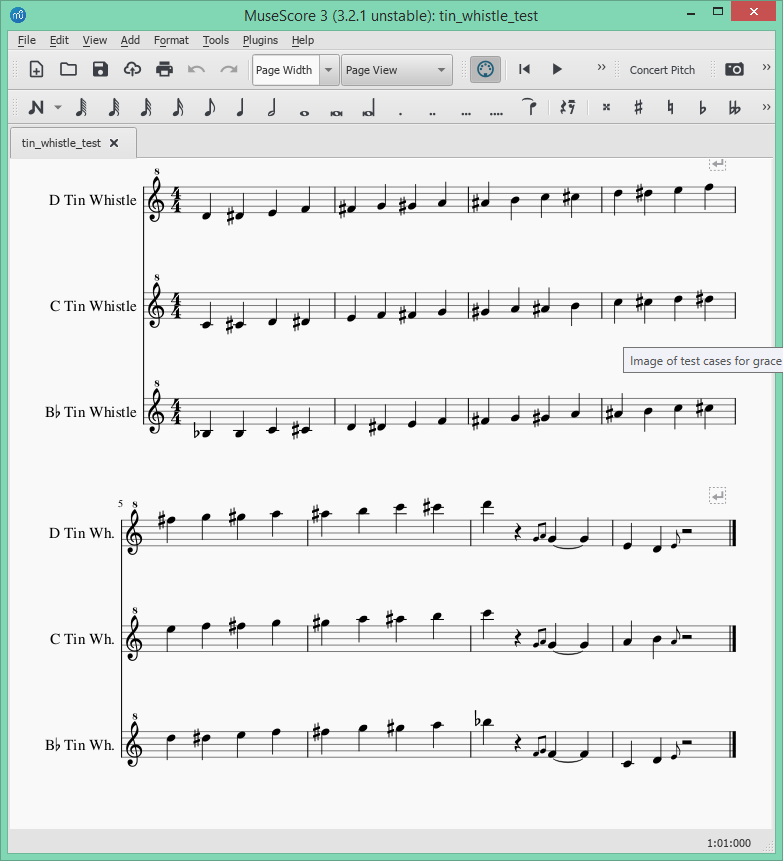
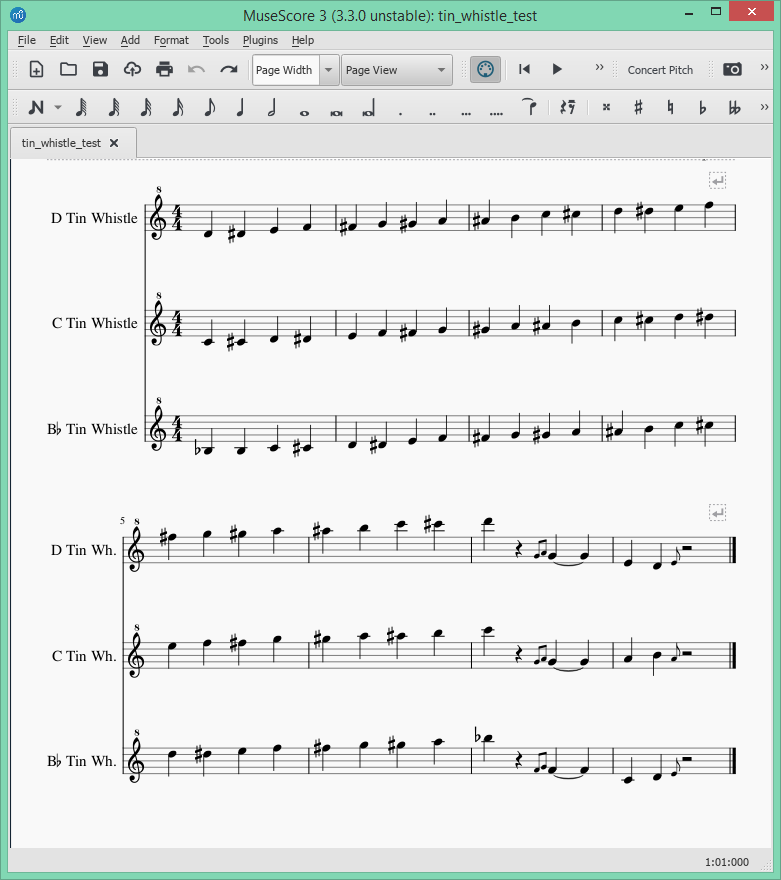
Accurately place whistle tabs for grace notes.
The MuseScore 3.3+ plugin api provides posX and posY element
properties that can be used to position other elements that
are related to each other. In this case the posX offset of the grace
notes can be used to directly position the whistle fingering tab
font characters below the actual note. This works even if the
note has been manually positioned. Finally the 3.3 release
fixes the broken note.tieBack call that returned undefined.
Now you won't get duplicate tab images for the later tied notes.

diff --git a/tin_whistle_tablature.qml b/tin_whistle_tablature.qml
@@ -26,11 +26,12 @@ import QtQuick.Dialogs 1.1
 import MuseScore 3.0
 
 MuseScore {
-   version: "3.0"
+   version: "3.3"
    description: qsTr("This plugin provides fingering diagrams for the tin whistle. Ensure font `TinWhistleTab.ttf` is installed")
    menuPath: "Plugins.Tin Whistle.Add tablature"
 
    property var tabFontName: "Tin Whistle Tab"
+   property var whistleFound: false
 
    // The notes from the "Tin Whistle Tab" font, using key of D as standard
    property variant tabs : ["d", "i", "e", "j", "f", "g", "h", "a", "n", "b", "m", "c", "D", "I", "E", "J", "F", "G", "H", "A", "N", "B", "M", "C", '\u00CE']
@@ -45,6 +46,18 @@ MuseScore {
          "https://www.blaynechastain.com/wp-content/uploads/TinWhistleTab.zip\n\n" +
          "The Zip file contains the TinWhistleTab.ttf font file you need to install on your device.\n" +
          "You will also need to restart MuseScore for it to recognize the new font."
+      onAccepted: {
+         Qt.quit()
+      }
+   }
+
+   MessageDialog {
+      id: noWhistlesFound
+      icon: StandardIcon.Warning
+      standardButtons: StandardButton.Ok
+      title: "No Staffs use a Tin Whistle"
+      text: "No selected staff in the current score uses a tin whistle instrument.\n" +
+            "Use menu command \"Edit -> Instruments\" to select your instrument."
       onAccepted: {
          Qt.quit()
       }
@@ -69,7 +82,7 @@ MuseScore {
       text.fontFace = tabFontName
       text.fontSize = tabSize
       // Vertical align to top. (0 = top, 1 = center, 2 = bottom, 3 = baseline)
-      text.align = Align.TOP     // 'Align' available in MuseScore 3.3
+      text.align = 0             // 'Align.TOP' is available in MuseScore 3.3
       // Place text to below the staff.
       text.placement = Placement.BELOW
       // Turn off note relative placement
@@ -77,15 +90,15 @@ MuseScore {
    }
 
    // For diagnostic use.
-//   function dumpObjectEntries (obj, showUndefinedVals, title) {
-//      console.log("VV -------- " + title + " ---------- VV")
-//      for (let [key, value] of Object.entries(obj)) {
-//         if (showUndefinedVals || (value != null)) {
-//            console.log(key + "=" + value);
-//         }
-//      }
-//      console.log("^^ -------- " + title + " ---------- ^^")
-//   }
+   function dumpObjectEntries(obj, showUndefinedVals, title) {
+      console.log("VV -------- " + title + " ---------- VV")
+      for (var key in obj) {
+         if (showUndefinedVals || (obj[key] != null)) {
+            console.log(key + "=" + obj[key]);
+         }
+      }
+      console.log("^^ -------- " + title + " ---------- ^^")
+   }
 
    function renderTinWhistleTablature() {
       // select either the full score or just the selected staves
@@ -133,27 +146,35 @@ MuseScore {
          if (instrument == "wind.flutes.whistle.tin") {
             basePitch = 72   // default is C tuning (even though D is the most common)
             tabOffsetY = -0.7
+            whistleFound = true;
          } else if (instrument == "wind.flutes.whistle.tin.c") {
             basePitch = 72   // C tuning
             tabOffsetY = -0.7
+            whistleFound = true;
          } else if (instrument == "wind.flutes.whistle.tin.bflat") {
             basePitch = 70   // B flat tuning
             tabOffsetY = -0.4
+            whistleFound = true;
          } else if (instrument == "wind.flutes.whistle.tin.d") {
             basePitch = 74   // D tuning
             tabOffsetY = -1.0
+            whistleFound = true;
          } else if (instrument == "wind.flutes.whistle.tin.common") {
             basePitch = 74   // D tuning (the most common)
             tabOffsetY = -1.0
+            whistleFound = true;
          } else if (instrument == "wind.flutes.whistle.tin.eflat") {
             basePitch = 75   // E flat tuning
             tabOffsetY = -1.0
+            whistleFound = true;
          } else if (instrument == "wind.flutes.whistle.tin.f") {
             basePitch = 77   // F tuning
             tabOffsetY = -1.0
+            whistleFound = true;
          } else if (instrument == "wind.flutes.whistle.tin.g") {
             basePitch = 79   // G tuning
             tabOffsetY = -1.0
+            whistleFound = true;
          } else {
             console.log("Skipped staff " + staff + " for instrumentId: " + instrument)
             continue
@@ -175,14 +196,14 @@ MuseScore {
          // Some positioning values used to render grace notes.
          // Note that these are determined by observation of the results
          // and appear to be consistent. It would be better to find the actual
-         // location of the grace notes but that capability isn't exposed at
-         // this time (circa MuseScore 3.2).
+         // location of the grace notes but that capability isn't exposed until
+         // version 3.3 of MuseScore. So for the earlier releases we use these
+         // heuristics.
          var graceNoteWidth = 1.2         // Assumed grace note width
          var graceNoteNudgeLeading = 0.0  // Assumed leading note cluster offset from main note
          var graceNoteNudgeTrailing = 3.0 // Assumed trailing note cluster offset from main note
 
          // TinWhistleTab.ttf character image font sizes.
-         // Note that these are determined by observation of the results.
          var tabFontSizeNormal = 35       // Size of normal sized whistle tab image
          var tabFontSizeGrace = 25        // Size of grace note sized whistle tab image
 
@@ -194,16 +215,21 @@ MuseScore {
                var leadingLifo = new Array();
                var trailingFifo = new Array();
                var graceChords = cursor.element.graceNotes;
+               // Determine if Element.posX and Element.posY is supported. (MuseScore 3.3+)
+               var hasElementPos = cursor.element.posX !== undefined;
+
+               // Build separate lists of leading and trailing grace note chords.
                if (graceChords.length > 0) {
-                  var hasNoteType = graceChords[0].notes[0].noteType !== undefined;
+                  // Determine if Note.noteType is supported. (MuseScore 3.2.1)
+                  var hasNoteType = graceChords[0].notes[0] !== undefined;
                   if (hasNoteType) {
                      for (var chordNum = 0; chordNum < graceChords.length; chordNum++) {
                         var noteType = graceChords[chordNum].notes[0].noteType
                         if (noteType == NoteType.GRACE8_AFTER || noteType == NoteType.GRACE16_AFTER ||
                               noteType == NoteType.GRACE32_AFTER) {
-                           trailingFifo.unshift(graceChords[chordNum].notes[0])
+                           trailingFifo.unshift(graceChords[chordNum])
                         } else {
-                           leadingLifo.push(graceChords[chordNum].notes[0])
+                           leadingLifo.push(graceChords[chordNum])
                         }
                      }
                   } else {
@@ -211,10 +237,9 @@ MuseScore {
                      // the NoteType capability doesn't exist in the running version of
                      // MuseScore.
                      for (var chordNum = 0; chordNum < graceChords.length; chordNum++) {
-                        leadingLifo.unshift(graceChords[chordNum].notes[0])
+                        leadingLifo.unshift(graceChords[chordNum])
                      }
                   }
-                  // Build separate lists of leading and trailing grace notes.
                }
 
                // First render leading grace notes if any exist...
@@ -223,19 +248,25 @@ MuseScore {
                   var graceLocationX = leadingLifo.length * -graceNoteWidth + graceNoteNudgeLeading;
                   for (var chordNum = 0; chordNum < leadingLifo.length; chordNum++) {
                      // there are no chords when playing the tin whistle
-                     var note = leadingLifo[chordNum];
-                     var pitch = note.pitch;
+                     var chord = leadingLifo[chordNum];
+                     var pitch = chord.notes[0].pitch;
 
                      text.text = selectTinTabCharacter(pitch, basePitch)
                      // Note: Set text attributes *after* adding element to the score.
                      cursor.add(text)
                      // grace notes are shown a bit smaller
                      setTinTabCharacterFont(text, tabFontSizeGrace)
-                     // there seems to be no way of knowing the exact horizontal pos.
-                     // of a grace note, so we have to guess:
-                     text.offsetX = graceLocationX
-                     // Move to the next note location.
-                     graceLocationX += graceNoteWidth;
+                     if (hasElementPos) {
+                        // X position the tab image under the grace note
+                        text.offsetX = chord.posX
+                     }
+                     else {
+                        // there seems to be no way of knowing the exact horizontal pos.
+                        // of a grace note, so we have to guess:
+                        text.offsetX = graceLocationX
+                        // Move to the next note location.
+                        graceLocationX += graceNoteWidth;
+                     }
                      // (See the note below about behavior of the text.offsetY property.)
                      text.offsetY = tabOffsetY   // place the tab below the staff
 
@@ -247,7 +278,8 @@ MuseScore {
                // Next process the parent note...
                if (cursor.element.notes[0].tieBack == null) {  // don't add tab if note is tied to previous note
                   // there are no chords when playing the tin whistle, so use first note
-                  var pitch = cursor.element.notes[0].pitch;
+                  var chord = cursor.element;
+                  var pitch = chord.notes[0].pitch;
                   text.text = selectTinTabCharacter(pitch, basePitch)
 
                   // NOTE - text.offsetY behavior oddity:
@@ -272,8 +304,11 @@ MuseScore {
                   // Next, setting text.offsetY will actually ADD the new value to the current value thereby
                   // acting as a numerical integrator.
                   text.offsetY = tabOffsetY
-                  // Nudge the hole pattern to be centered under the note.
-                  text.offsetX = 0.5
+                  // Place the whistle hole pattern to be centered under the note.
+                  if (hasElementPos)
+                     text.offsetX = chord.posX + 0.25
+                  else
+                     text.offsetX = 0.5
 
                   // Create new text element for next tab placement
                   text = newElement(Element.STAFF_TEXT)
@@ -286,19 +321,25 @@ MuseScore {
 
                   for (var chordNum = 0; chordNum < trailingFifo.length; chordNum++) {
                      // there are no chords when playing the tin whistle
-                     var note = trailingFifo[chordNum];
-                     var pitch = note.pitch;
+                     var chord = trailingFifo[chordNum];
+                     var pitch = chord.notes[0].pitch;
 
                      text.text = selectTinTabCharacter(pitch, basePitch)
                      // Note: Set text attributes *after* adding element to the score.
                      cursor.add(text)
                      // grace notes are shown a bit smaller
                      setTinTabCharacterFont(text, tabFontSizeGrace)
-                     // there seems to be no way of knowing the exact horizontal pos.
-                     // of a grace note, so we have to guess:
-                     text.offsetX = graceLocationX
-                     // Move to the next note location.
-                     graceLocationX += graceNoteWidth;
+                     if (hasElementPos) {
+                        // X position the tab image under the grace note
+                        text.offsetX = chord.posX
+                     }
+                     else {
+                        // there seems to be no way of knowing the exact horizontal pos.
+                        // of a grace note, so we have to guess:
+                        text.offsetX = graceLocationX
+                        // Move to the next note location.
+                        graceLocationX += graceNoteWidth;
+                     }
                      // (See the note below about behavior of the text.offsetY property.)
                      text.offsetY = tabOffsetY   // place the tab below the staff
 
@@ -319,8 +360,11 @@ MuseScore {
       if (typeof curScore === 'undefined')
          Qt.quit()
 
-      if (Qt.fontFamilies().indexOf("Tin Whistle Tab") >= 0)
+      if (Qt.fontFamilies().indexOf("Tin Whistle Tab") >= 0) {
          renderTinWhistleTablature()
+         if (!whistleFound)
+            noWhistlesFound.open()
+      }
       else
          fontMissingDialog.open()
       Qt.quit()

diff --git a/README.md b/README.md
@@ -10,7 +10,7 @@ plugin will adjust the tab diagram position for the lowest note possible
 (currently D, C or Bb).
 
 See the "Here be Dragons" section of this document that discusses various
-limitations of MuseScore 3 releases.
+quirks related to early MuseScore 3 releases.
 
 ### Installation
 * If using MuseScore version 3 then download the [plugin](https://github.com/jgadsden/tin-whistle-tablature/archive/master.zip) and unzip it.
@@ -25,12 +25,12 @@ are using MuseScore version 2.x then use this [handbook](https://musescore.org/e
 to enable the plugin. Tick the box against 'tin\_whistle\_tablature' and apply
 with 'OK'.
 
-* This plugin relies on a font being installed, which is not included in this
-download but can be obtained from [Blayne Chastain's site](https://www.blaynechastain.com/wp-content/uploads/TinWhistleTab.zip). To install the 
-font it is usually just a case of double-clicking the downloaded `.ttf` file 
-and agreeing to the install process. If that does not work then on linux
-systems try copying the TinWhistleTab.ttf font file to the 
-`/usr/share/fonts/truetype/` directory.
+* This plugin relies on a font being installed, which is not included in this download 
+but can be obtained from [Blayne Chastain's site](https://www.blaynechastain.com/wp-content/uploads/TinWhistleTab.zip). If the font isn't installed you will be 
+presented with a message box telling you how to obtain the font. To install the 
+font, it is usually just a case of double-clicking the downloaded `.ttf` file and 
+agreeing to the install process. If that does not work then on linux systems try 
+copying the TinWhistleTab.ttf font file to the `/usr/share/fonts/truetype/` directory.
 
 ### Using the plugin
 The tabs will be added to the highlighted bars if you have made a selection,
@@ -76,25 +76,25 @@ MuseScore 2.x on a branch 'version2' and the other for Musecore 3.x on the
 The version for MuseScore 2 will check that the staff is for a tin whistle and
 adjust the tab diagram position for the lowest note possible.
 
-Prior to MuseScore 3.2, the instrument type used on a staff can NOT be 
-detected. In this case the plugin will assume that a whistle tuned to D is 
-used - this being the most common whistle. 
+Prior to MuseScore 3.2:
 
-Also, circa June 2019, this plugin only supports grace notes that lead the main 
-note. Tabs for trailing grace notes will be rendered as leading notes which is 
-not what you want. In fact the trailing notes will be out of order. The next 
-release of MuseScore (following 3.2) will support the layout of both styles of 
-grace notes since the QML will then expose note types (including grace notes). 
-The current version of this plugin is ready to use when that is released. 
-Until then, best to stay away from trailing grace notes. The following image 
-shows what's possible after that release: 
+* The instrument type used on a staff can NOT be detected. In this case the plugin will 
+assume that a whistle tuned to D is used - this being the most common whistle. 
+
+* This plugin only supports grace notes that lead the main note. Tabs for trailing grace 
+notes will be rendered as leading notes which is not what you want. In fact the trailing 
+notes will be out of order. 
+
+Prior to MuseScore 3.3:
+
+* You may see some minor issues with grace note tab positioning. The actual physical 
+position of the grace notes was not available before v3.3 so a heuristic approach 
+(aka good 'ole human observation) is used to get a decent overall result even though 
+it's not perfect.
+
+Here is an example of how the fingering tab images are accurately positioned in MuseScore 3.3+:
 
 ![Image of test cases for grace notes.](images/whistle-grace-note-test.png  "Image of test cases for grace notes.")
-
-Note that you'll see some minor issues with trailing grace note tab positioning. 
-The actual physical position of the grace notes is not available so a heuristic 
-approach (aka good 'ole human observation) is used to get a decent overall result 
-even though it's not perfect.
 
 ### Having problems?
 Note that this plugin relies on a font being installed, see the Installation
